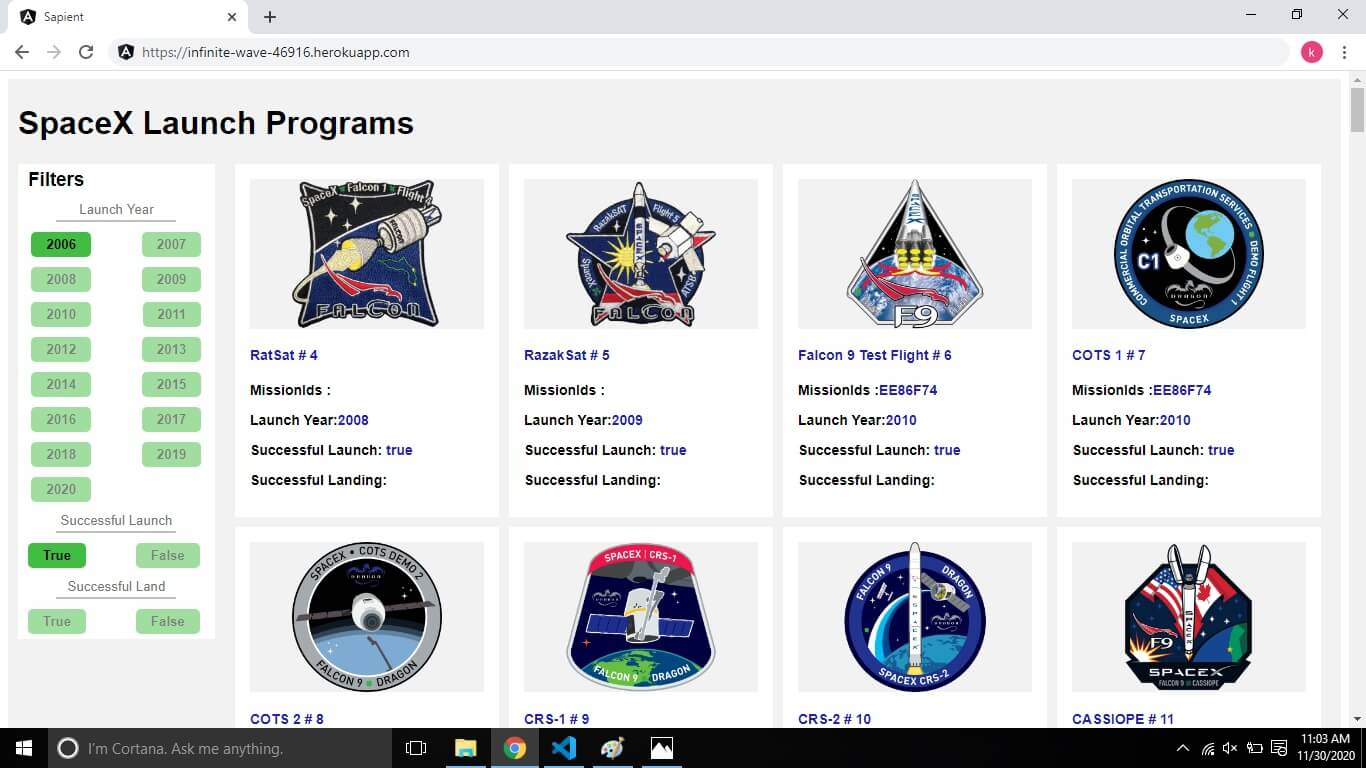
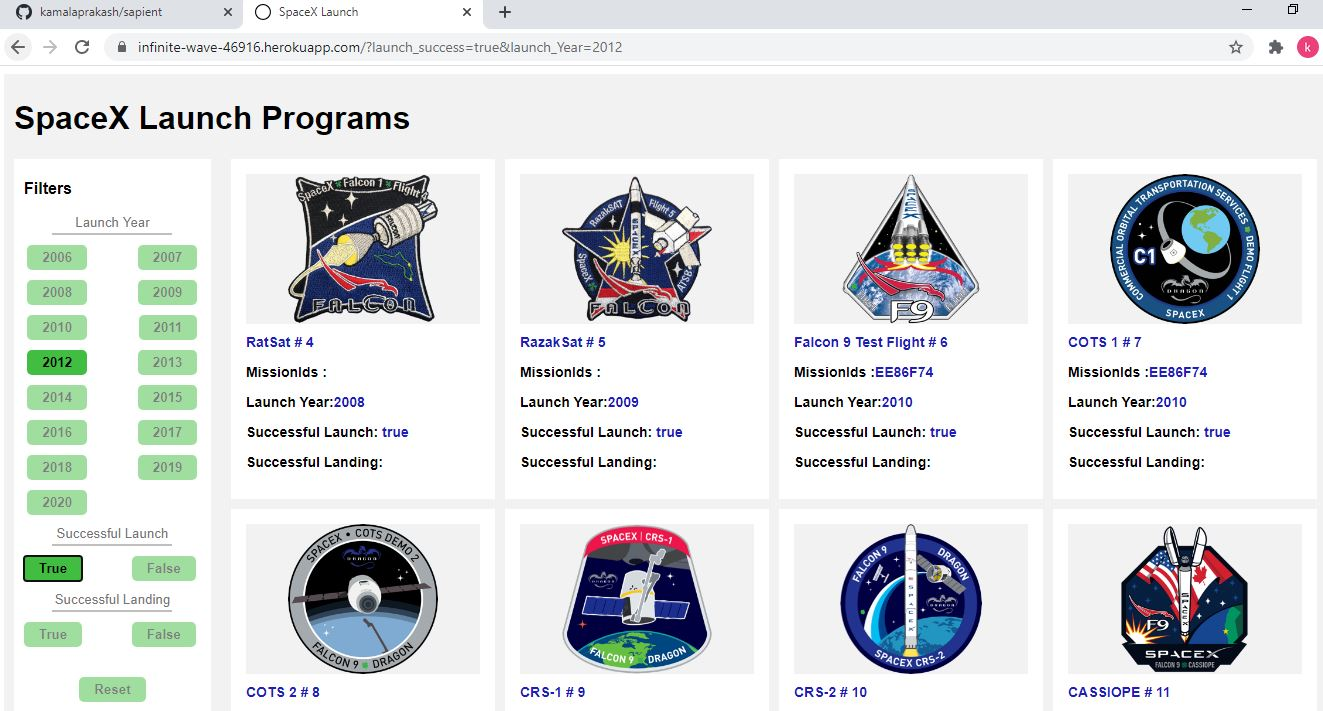
new file changes

diff --git a/src/app/sapient/sapient.component.ts b/src/app/sapient/sapient.component.ts
@@ -60,14 +60,14 @@ export class SapientComponent implements OnInit {
       });
     } else if (this.launchSuccess && this.landSuccess) {
       this.router.navigate(['/'], { queryParams: { launch_success: 'true', land_success: 'true' } });
-    } else if (this.launchSuccess && this.launchYearValue) {
+    } else if (this.launchSuccess && !this.landSuccess && this.launchYearValue)  {
       this.router.navigate(['/'], {
         queryParams: {
           launch_success: 'true',
           launch_Year: this.launchYearValue.toString()
         }
       });
-    } else if (this.landSuccess && this.launchYearValue) {
+    } else if (this.landSuccess &&!this.launchSuccess && this.launchYearValue) {
       this.router.navigate(['/'], {
         queryParams: {
           land_success: 'true',
@@ -93,10 +93,9 @@ export class SapientComponent implements OnInit {
     this.launchYearValue = launchYear;
     this.filterApplyInUrl();
   }
-  reset(event) {
-    console.log(event);
-    this.launchSuccess = false;
-    this.landSuccess = false;
+  reset() {
+    this.launchSuccess = undefined;
+    this.landSuccess = undefined;
     this.launchYearValue = undefined;
     this.filterApplyInUrl();
   }

diff --git a/src/app/sapient/sapient.component.html b/src/app/sapient/sapient.component.html
@@ -32,7 +32,7 @@
                     <button title="land button" (click)="isLandFailure()"
                         [ngClass]="{'active':  landSuccess === launchButtonState[1]}">{{landButtonState[1]}}</button>
                 </div>
-                <button (click)="reset($event)" class="reset">Reset</button>
+                <button (click)="reset()" class="reset">Reset</button>
             </div>
         </div>
         <app-sapient-detail-page></app-sapient-detail-page>
